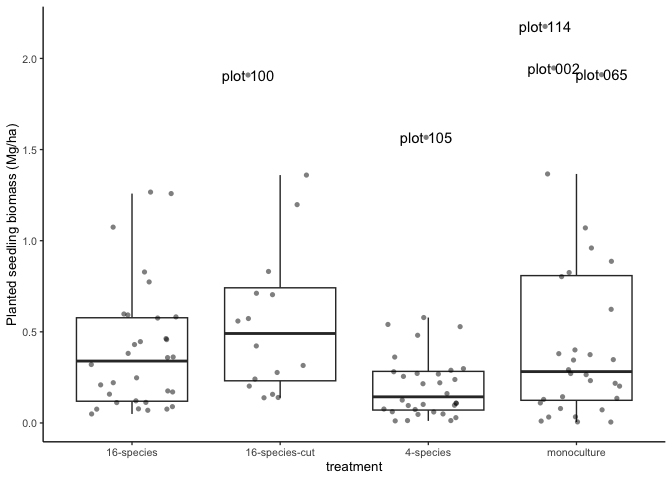
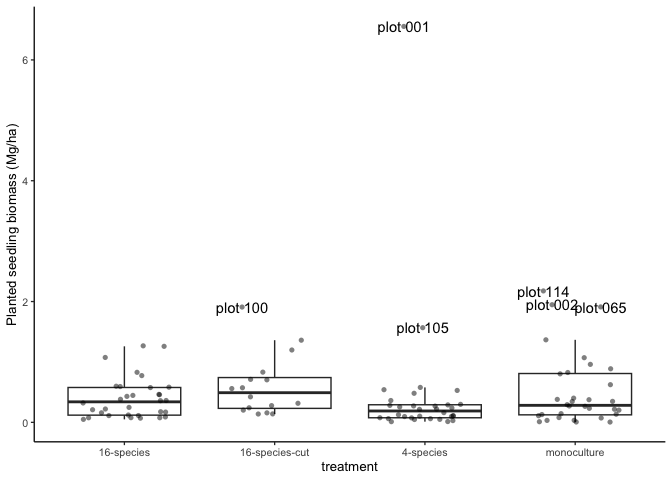
don't change plot 001

diff --git a/code/notebooks/2025-07-21_estimate-biomass.md b/code/notebooks/2025-07-21_estimate-biomass.md
@@ -1,6 +1,6 @@
 # Estimate biomass
 eleanorjackson
-2025-07-22
+2025-07-24
 
 - [Get wood density](#get-wood-density)
 - [Estimate biomass](#estimate-biomass)
@@ -16,9 +16,7 @@ library("patchwork")
 ``` r
 new_census <- 
   readRDS(here::here("data", "derived", "data_cleaned.rds")) %>% 
-  filter(census_id == "full_measurement_03") %>% # most recent census
-  mutate(dbh_mm = case_when(plot == "001" ~ dbh_mm /10,
-                            .default = dbh_mm)) # I think plot 1 is in cm
+  filter(census_id == "full_measurement_03") # most recent census
 ```
 
 ## Get wood density
@@ -177,7 +175,7 @@ plot_biomass %>%
     # A tibble: 1 × 1
       median
        <dbl>
-    1  0.267
+    1  0.270
 
 ``` r
 pos <- 
